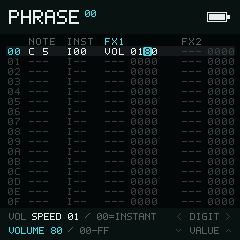
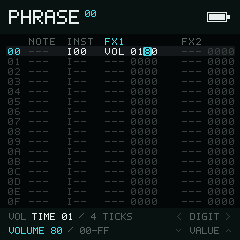
docs: correct FX parameter meanings and editing help

diff --git a/docs/reference/commands.md b/docs/reference/commands.md
@@ -21,13 +21,13 @@ or instrument does not implement has no effect.
 | `CHD` | `abcd` | Stack | Set four intervals 0–15 semitones below the base note |
 | `CHU` | `abcd` | Stack | Set four intervals 0–15 semitones above the base note |
 | `CSH` | `aa-b` | Sample, Drum, Stack, Chiptune | Sample sets drive from `aa` and bit-crush from `b`, leaving zero components unchanged; Drum, Stack, and Chiptune set bit-crush from `b` immediately, including zero |
-| `DLY` | `---b` | Phrase note | Delay the note start by `b + 1` ticks |
-| `FCT` | `aabb` | Sample | Ramp filter cutoff toward `bb` at speed `aa` |
+| `DLY` | `---b` | Phrase note | Delay the note start by `b` ticks; `0` adds no delay |
+| `FCT` | `aabb` | Sample | Ramp filter cutoff toward `bb` over `aa × 4` tracker ticks; `00` applies immediately |
 | `FLT` | `aabb` | Sample | Set cutoff `aa` and resonance `bb` immediately |
-| `FRS` | `aabb` | Sample | Ramp filter resonance toward `bb` at speed `aa` |
+| `FRS` | `aabb` | Sample | Ramp filter resonance toward `bb` over `aa × 4` tracker ticks; `00` applies immediately |
 | `GOF` | `----` | SID, OPAL, Drum, Stack, Chiptune | Release the synth gate/envelope; Drum and Chiptune stop the voice |
 | `GRV` | `aabb` | Player, Table | Select groove `bb`; in a Phrase, nonzero `aa` applies it to all tracks, while a Table uses its local groove |
-| `HOP` | `aabb` | Phrase, Table | In a Phrase, jump to step `b` when that next step is reached; in a Table, jump to `b` and use `aa` as the repeat count |
+| `HOP` | Phrase: `---b`; Table: `aa-b` | Phrase, Table | Phrase uses only destination step `b`, with no repeat count. Table hops to step `b` `aa` times; `aa = 00` repeats indefinitely. The third digit is unused |
 | `IRT` | `--bb` | Table | Retrigger the current instrument with signed 8-bit semitone offset `bb` |
 | `KIL` | `--bb` | Player, Table | Stop the active voice after `bb` ticks |
 | `LEG` | `aabb` | Sample, MIDI, Stack, Chiptune | Slide toward pitch target `bb` at speed `aa`; MIDI uses its curved pitch-bend path |
@@ -35,7 +35,7 @@ or instrument does not implement has no effect.
 | `MCC` | `aabb` | MIDI | Send Control Change number `aa` with value `bb`; both become 7-bit MIDI values |
 | `MCH` | `abcd` | MIDI | Add four scale-aware chord offsets; a zero nibble omits that added note |
 | `MPC` | `--bb` | MIDI | Send Program Change `bb` as a 7-bit value |
-| `PAN` | `aabb` | Sample, Stack, Chiptune | Ramp pan toward `bb` at speed `aa`; `00` is right in the current engine |
+| `PAN` | `aabb` | Sample, Stack, Chiptune | Sample ramps pan toward `bb` over `aa × 4` tracker ticks. Stack and Chiptune move by `aa` units per 10 ms. Zero `aa` applies immediately; `bb = 00` is right |
 | `PFT` | `aabb` | Sample, Stack, Chiptune | Fine-tune toward `bb` at speed `aa`, over approximately ±1 semitone |
 | `POF` | `aabb` | Sample | If `aa` is nonzero, jump to absolute fraction `aa/256`, then add signed relative fraction `bb/256`; position wraps |
 | `PSL` | `aabb` | Sample, MIDI, Stack, Chiptune | Slide toward pitch target `bb` at speed `aa`; MIDI uses its linear pitch-bend path |
@@ -46,7 +46,7 @@ or instrument does not implement has no effect.
 | `TPO` | `aabb` | Player | Set tempo from 16-bit hexadecimal `aabb`, clamped to 60–400 BPM (`003C`–`0190`) |
 | `VEL` | `--bb` | MIDI | Set following MIDI Note On velocity, limited to `00`–`7F` |
 | `VIB` | `aabb` | Sample, Stack, Chiptune | Set vibrato rate `aa` and depth `bb`; `0000` disables the modulation |
-| `VOL` | `aabb` | Sample, MIDI, Drum, Stack, Chiptune | Sample ramps volume toward `bb` at speed `aa`; MIDI sends CC 7 from `bb/2`; Drum and Stack set volume to `bb` immediately; Chiptune ramps over `aa` control ticks |
+| `VOL` | `aabb` | Sample, MIDI, Drum, Stack, Chiptune | Sample ramps volume toward `bb` over `aa × 4` tracker ticks; MIDI sends CC 7 from `bb/2`; Drum and Stack set volume to `bb` immediately. MIDI, Drum, and Stack ignore `aa`. Chiptune ramps over `aa × 10` ms; zero `aa` applies immediately |
 
 ## Choose an available command
 
@@ -212,6 +212,28 @@ can change the sound of existing steps that already contained an unsupported
 command: for example, Stack now executes an `ARP` that older versions ignored.
 The command and parameter remain exactly as stored.
 
+## HOP: destination and repeats
+
+The selector help follows the page. **Phrase** shows `HOP ---b`: only the last
+hexadecimal digit chooses a destination row, `0`–`F`; the first three digits
+have no effect. When playback reaches a HOP row, Song/Chain playback advances
+to that row in the next phrase. Phrase playback jumps within the current phrase.
+There is no Phrase repeat count.
+
+**Table** shows `HOP aa-b`. For example, `HOP 02A5` jumps to row `5` twice,
+then falls through to the next row on the third visit. `A` is unused. `HOP 00A5`
+keeps jumping to row `5`. While editing, the bar shows **Repeat 02** and
+**Step 5**; selecting the unused third digit keeps both values visible.
+
+<InterfaceShot src="img/screens/fx-edit-sample-hop-0.png" alt="Phrase HOP 02A5 editing an unused high digit while the actual jump destination 5 remains visible">
+  An unused digit is marked explicitly. The displayed jump destination stays 5.
+</InterfaceShot>
+
+Sample `VOL`, `PAN`, `FCT`, and `FRS` show **Time** for the high byte: increasing
+it lengthens the ramp (`01` is four tracker ticks). Chiptune `VOL` and
+Stack/Chiptune pitch slides use 10 ms units. These descriptions reflect the
+existing playback behavior; they do not change stored commands or timing.
+
 ## Editing command fields
 
 <Keycap>Left</Keycap> and <Keycap>Right</Keycap> move between a command mnemonic and its parameter field.
@@ -224,10 +246,10 @@ For example, `TPO 0078` is 120 BPM and `KIL --0C` is 12 ticks.
 While you hold **Enter**, the left side of the two-line bottom bar explains the
 current command's fields and values. **Digit / Value** controls stay on the
 right. The field containing the focused digit is highlighted. For paired-byte
-commands, both fields remain visible: Sample `VOL` shows **Speed / Volume**,
+commands, both fields remain visible: Sample `VOL` shows **Time / Volume**,
 `FLT` shows **Cutoff / Resonance**, and MIDI `MCC` shows **CC / Value**.
 
-<InterfaceShot src="img/screens/fx-edit-sample-vol-2.png" alt="Sample VOL parameter editing with Volume highlighted, Speed still visible, and compact controls on the right">
+<InterfaceShot src="img/screens/fx-edit-sample-vol-2.png" alt="Sample VOL parameter editing with Volume highlighted, Time still visible, and compact controls on the right">
   Moving between the two bytes highlights the field you are changing.
 </InterfaceShot>
 
@@ -247,7 +269,9 @@ values. Arpeggios and chords show individual offsets and highlight the one being
 edited; a dash marks an omitted note. These explanations do not rewrite the
 stored hexadecimal value.
 
-Selecting an unused digit shows **Unused digit**. `GOF` and `STP` show
+Selecting an unused digit shows **Unused digit** while preserving the actual
+parameter values. The unused digit never replaces a displayed jump destination,
+volume, or other target. `GOF` and `STP` show
 **No parameter**. Unsupported commands keep **Not Supported / On This
 Instrument** beside the controls. Empty FX cells keep the plain editing legend.
 
